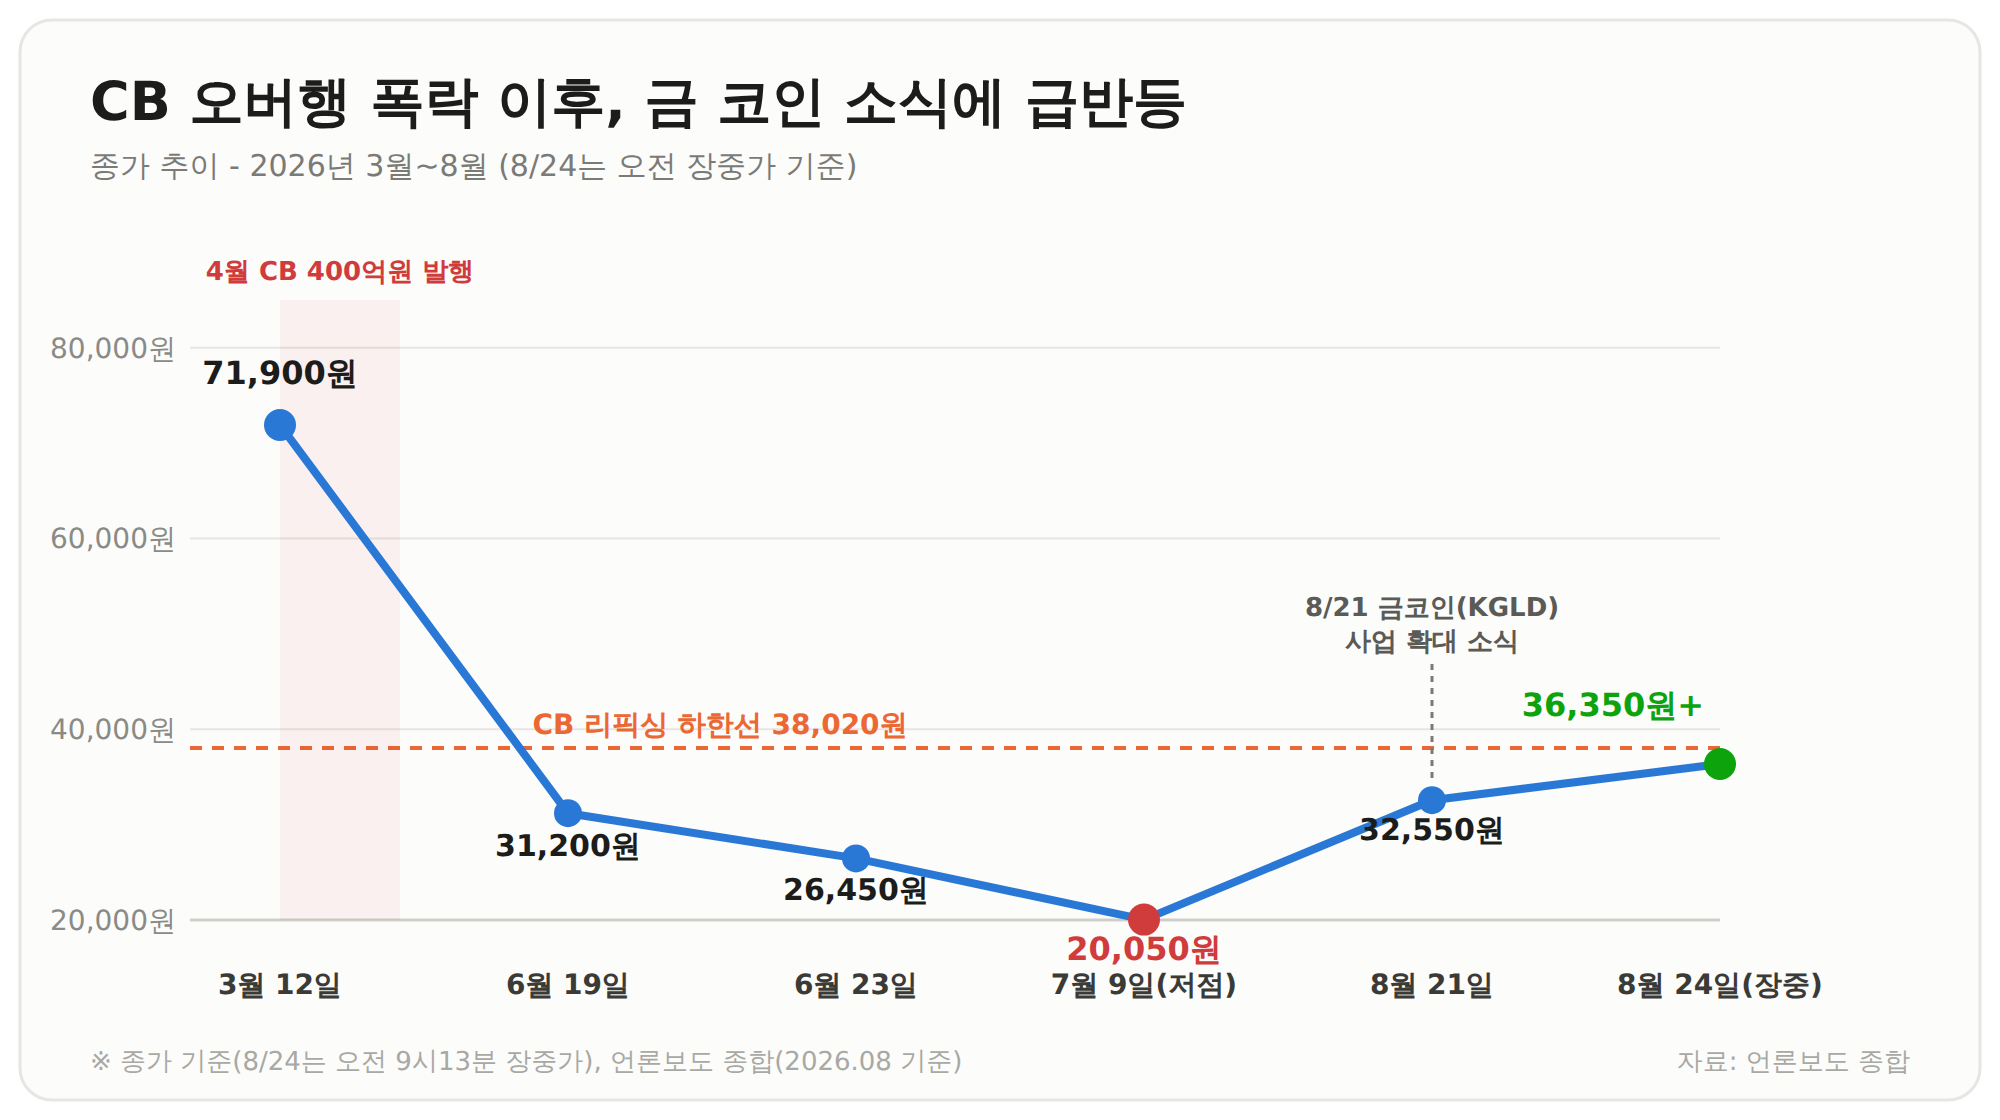
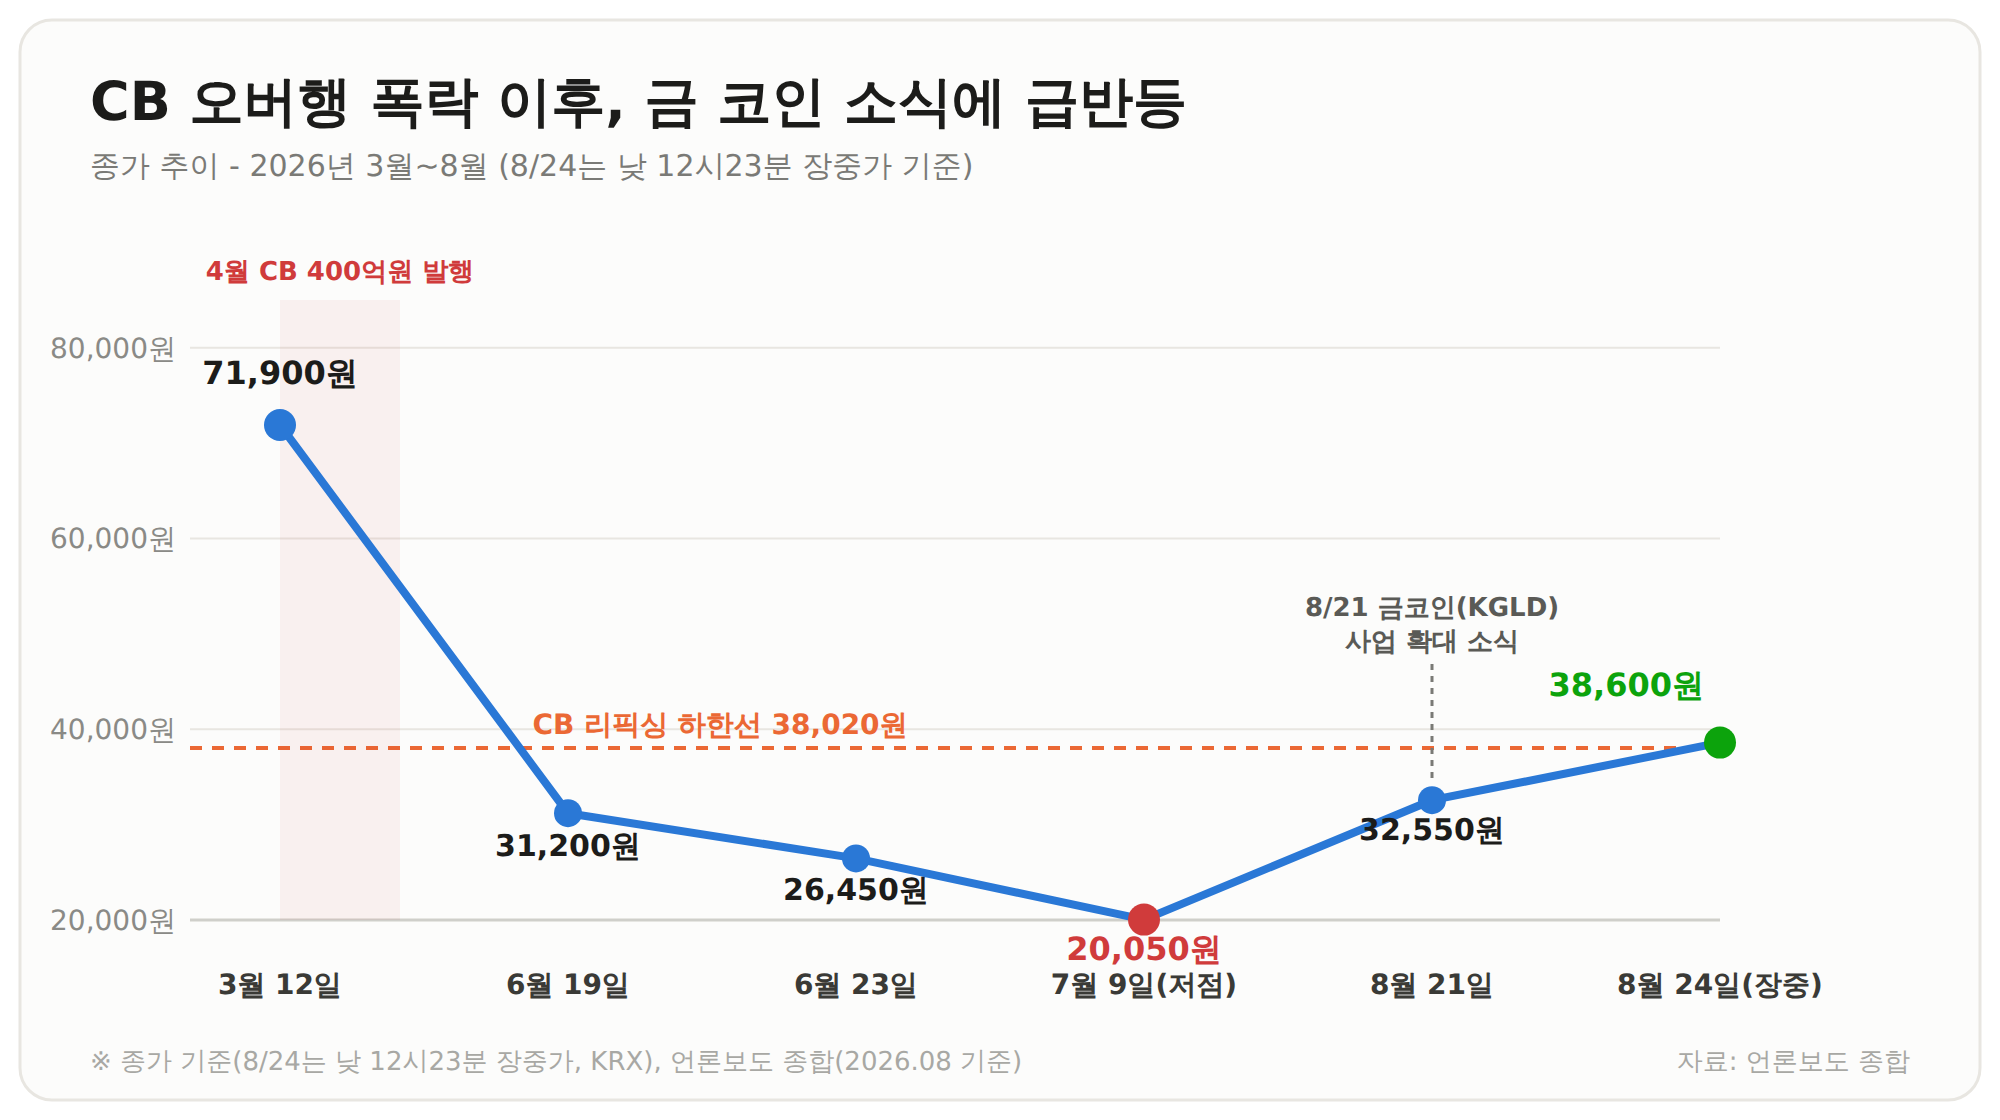
fix: 아이티센글로벌 8/24 낮 12시23분 KRX 종가(38,600원) 반영, 3일 거래량 관심종목 코멘트 추가
- 8/24 장중가를 9시13분 36,350원(+11.67%)에서 낮 12시23분 KRX 38,600원(+18.6%)으로
  갱신 - 리픽싱 하한선(38,020원)을 다시 상회
- 8/21 소식 이후 최근 3거래일간 거래량을 동반한 상승이 나타나고 있다는 점을
  '가장 큰 이슈'와 '투자 포인트'에 반영, 관심종목으로 체크해볼 만하다는 시각 추가
- 커버·종가추이 차트 수치 동일하게 갱신

Changed region(s): [[0.713, 0.5938, 0.868, 0.7188], [0.155, 0.9375, 0.527, 0.9688], [0.31, 0.125, 0.496, 0.1562]]

diff --git a/src/App.tsx b/src/App.tsx
@@ -20,7 +20,7 @@ const samplePosts: Post[] = [
 
 안녕하세요 대왕토끼입니다~ 🐰
 
-![아이티센글로벌 주식분석 커버 이미지 - CB 오버행 폭락 이후 금 코인 소식에 급반등, 2026년 상반기 매출(연결) 5조5806억원 전년比 +92%, CB 리픽싱 오버행 우려로 고점 대비 -63% 폭락(3/12→6/23), 8/21 금 코인(KGLD) 소식에 8/24 장중 +11.67% 급등 36,350원대](/images/itcenglobal-stock/itcenglobal-cover.png)
+![아이티센글로벌 주식분석 커버 이미지 - CB 오버행 폭락 이후 금 코인 소식에 급반등, 2026년 상반기 매출(연결) 5조5806억원 전년比 +92%, CB 리픽싱 오버행 우려로 고점 대비 -63% 폭락(3/12→6/23), 8/21 금 코인(KGLD) 소식에 8/24 장중 +18.6% 급등 38,600원대](/images/itcenglobal-stock/itcenglobal-cover.png)
 
 이번 글에서는 전통 IT서비스 지주회사에서 금 기반 웹3(Web3) 기업으로 빠르게 변신 중인 **아이티센글로벌**을 살펴보려고 합니다. 실적은 분기마다 사상 최대치를 갈아치우는데, 주가는 전환사채(CB) 오버행 우려로 반년 만에 반토막 넘게 폭락했다가 최근 다시 급반등하는 극심한 변동성을 보이고 있어요. 무슨 일이 있었는지 순서대로 짚어봤습니다.
 
@@ -72,15 +72,19 @@ const samplePosts: Post[] = [
 
 문제는 이후 주가가 이 하한선보다도 훨씬 더 밀렸다는 점이에요. 3월 12일 71,900원이던 종가는 6월 19일 31,200원, 6월 23일에는 26,450원까지 주저앉았어요(고점 대비 약 -63%). 주가가 리픽싱 하한선(38,020원) 아래로 떨어지면서, CB가 전환될 경우 예상되는 잠재 발행주식수가 최초 전환가 기준 약 73만 6천주에서 하한선 기준 약 105만주까지 늘어나는 오버행(잠재 매도물량) 우려가 부각됐습니다. 이후에도 반등하지 못하고 7월 9일에는 20,050원까지 밀리는 등 약세가 이어졌어요.
 
-![아이티센글로벌 종가 추이 차트 - 4월 CB 400억원 발행 이후 3월12일 71,900원에서 7월9일 저점 20,050원까지 폭락했다가, 8월21일 금코인(KGLD) 사업 확대 소식에 8월24일 장중 36,350원대까지 반등, CB 리픽싱 하한선 38,020원 표시](/images/itcenglobal-stock/itcenglobal-price-trend.png)
+![아이티센글로벌 종가 추이 차트 - 4월 CB 400억원 발행 이후 3월12일 71,900원에서 7월9일 저점 20,050원까지 폭락했다가, 8월21일 금코인(KGLD) 사업 확대 소식에 8월24일 낮 12시23분 장중 38,600원까지 반등, CB 리픽싱 하한선 38,020원 표시](/images/itcenglobal-stock/itcenglobal-price-trend.png)
 
 ### ② 8월 21일 '금 코인(KGLD)' 사업 확대 소식에 급반등
 
-분위기가 바뀐 건 8월이에요. 8월 21일 회사가 실물 금 연동 토큰 '케이골드(KGLD)' 사업 확대 구상을 공개하면서 투자자들의 관심이 몰렸어요. 이 소식에 8월 24일 장 초반(오전 9시 13분 기준) 주가는 전 거래일 종가(32,550원) 대비 +11.67% 급등한 36,350원까지 올랐습니다. (이 수치는 장중가 기준으로, 최종 종가와는 다를 수 있어요.)
+분위기가 바뀐 건 8월이에요. 8월 21일 회사가 실물 금 연동 토큰 '케이골드(KGLD)' 사업 확대 구상을 공개하면서 투자자들의 관심이 몰렸어요. 이 소식에 8월 24일 낮 12시 23분 기준 주가는 전 거래일 종가(32,550원) 대비 +18.6% 급등한 38,600원(KRX)까지 올랐습니다. (이 수치는 장중가 기준으로, 최종 종가와는 다를 수 있어요.)
 
 핵심은 회사가 3분기 내 금 코인 발행과 국내외 거래소 상장을 추진하고 있고, 이미 대형 결제대행사(PG)와의 개념증명(PoC)을 마쳤다는 점이에요. CB 오버행이라는 수급 부담 요인이 여전한 가운데, 실제 사업화 진전이라는 펀더멘털 재료가 부딪히는 국면인 셈이죠.
 
-### ③ 관전 포인트 - 오버행은 아직 진행형
+### ③ 최근 3거래일 거래량도 함께 늘어나는 흐름
+
+가격 반등뿐 아니라 거래량도 함께 살펴볼 만해요. 8월 21일 금 코인 소식이 나온 이후 최근 3거래일 동안 평소보다 눈에 띄게 늘어난 거래량을 동반하며 주가가 오르는 흐름이 나타나고 있어요. 가격 상승이 거래량 증가와 함께 나타나는 건 일반적으로 매수세가 실렸다는 신호로 해석되는 만큼, 이 흐름이 이어지는지 관심종목으로 체크해볼 만한 구간이라는 시각도 있습니다.
+
+### ④ 관전 포인트 - 오버행은 아직 진행형
 
 오버행 우려가 완전히 해소된 건 아니에요. CB 전환청구기간은 2027년 5월부터 시작되기 때문에 당장 물량이 풀리는 건 아니지만, 주가가 낮게 유지될수록 잠재 전환주식수가 늘어난 채 고정된다는 점은 구조적 부담으로 남아있어요. 결국 웹3 신사업(금 코인·STO)이 실제 매출과 이익으로 얼마나 빨리 연결되는지가, 이 오버행 부담을 상쇄할 수 있는지의 관건이에요.
 
@@ -119,6 +123,7 @@ CB 발행 이전인 2025년 4월경에는 증권사 컨센서스 목표주가가
 - 2026년 상반기 매출·영업이익이 각각 전년동기比 +92%, +94%로 외형 성장이 뚜렷하고, IT서비스 부문도 흑자전환에 성공했어요.
 - 3분기 내 금 코인 발행, 거래소 상장이라는 구체적인 이벤트가 예정돼 있어 단기 모멘텀이 살아있어요.
 - 2026년 4월 코스닥 우량기업부로 소속이 변경되며 재무 안정성 측면에서도 한 단계 인정받았어요.
+- 최근 3거래일간 거래량을 동반한 상승이 이어지고 있어, 단기 수급 측면에서도 관심 있게 지켜볼 만한 구간이에요.
 
 **리스크**
 - CB 리픽싱으로 늘어난 잠재 전환물량(최대 약 105만주)이 여전히 오버행 부담으로 남아있어요.

diff --git a/posts/stock/itcenglobal-analysis.md b/posts/stock/itcenglobal-analysis.md
@@ -10,7 +10,7 @@ naverCategory: "국내주식"
 
 안녕하세요 대왕토끼입니다~ 🐰
 
-![아이티센글로벌 주식분석 커버 이미지 - CB 오버행 폭락 이후 금 코인 소식에 급반등, 2026년 상반기 매출(연결) 5조5806억원 전년比 +92%, CB 리픽싱 오버행 우려로 고점 대비 -63% 폭락(3/12→6/23), 8/21 금 코인(KGLD) 소식에 8/24 장중 +11.67% 급등 36,350원대](/images/itcenglobal-stock/itcenglobal-cover.png)
+![아이티센글로벌 주식분석 커버 이미지 - CB 오버행 폭락 이후 금 코인 소식에 급반등, 2026년 상반기 매출(연결) 5조5806억원 전년比 +92%, CB 리픽싱 오버행 우려로 고점 대비 -63% 폭락(3/12→6/23), 8/21 금 코인(KGLD) 소식에 8/24 장중 +18.6% 급등 38,600원대](/images/itcenglobal-stock/itcenglobal-cover.png)
 
 이번 글에서는 전통 IT서비스 지주회사에서 금 기반 웹3(Web3) 기업으로 빠르게 변신 중인 **아이티센글로벌**을 살펴보려고 합니다. 실적은 분기마다 사상 최대치를 갈아치우는데, 주가는 전환사채(CB) 오버행 우려로 반년 만에 반토막 넘게 폭락했다가 최근 다시 급반등하는 극심한 변동성을 보이고 있어요. 무슨 일이 있었는지 순서대로 짚어봤습니다.
 
@@ -62,15 +62,19 @@ naverCategory: "국내주식"
 
 문제는 이후 주가가 이 하한선보다도 훨씬 더 밀렸다는 점이에요. 3월 12일 71,900원이던 종가는 6월 19일 31,200원, 6월 23일에는 26,450원까지 주저앉았어요(고점 대비 약 -63%). 주가가 리픽싱 하한선(38,020원) 아래로 떨어지면서, CB가 전환될 경우 예상되는 잠재 발행주식수가 최초 전환가 기준 약 73만 6천주에서 하한선 기준 약 105만주까지 늘어나는 오버행(잠재 매도물량) 우려가 부각됐습니다. 이후에도 반등하지 못하고 7월 9일에는 20,050원까지 밀리는 등 약세가 이어졌어요.
 
-![아이티센글로벌 종가 추이 차트 - 4월 CB 400억원 발행 이후 3월12일 71,900원에서 7월9일 저점 20,050원까지 폭락했다가, 8월21일 금코인(KGLD) 사업 확대 소식에 8월24일 장중 36,350원대까지 반등, CB 리픽싱 하한선 38,020원 표시](/images/itcenglobal-stock/itcenglobal-price-trend.png)
+![아이티센글로벌 종가 추이 차트 - 4월 CB 400억원 발행 이후 3월12일 71,900원에서 7월9일 저점 20,050원까지 폭락했다가, 8월21일 금코인(KGLD) 사업 확대 소식에 8월24일 낮 12시23분 장중 38,600원까지 반등, CB 리픽싱 하한선 38,020원 표시](/images/itcenglobal-stock/itcenglobal-price-trend.png)
 
 ### ② 8월 21일 '금 코인(KGLD)' 사업 확대 소식에 급반등
 
-분위기가 바뀐 건 8월이에요. 8월 21일 회사가 실물 금 연동 토큰 '케이골드(KGLD)' 사업 확대 구상을 공개하면서 투자자들의 관심이 몰렸어요. 이 소식에 8월 24일 장 초반(오전 9시 13분 기준) 주가는 전 거래일 종가(32,550원) 대비 +11.67% 급등한 36,350원까지 올랐습니다. (이 수치는 장중가 기준으로, 최종 종가와는 다를 수 있어요.)
+분위기가 바뀐 건 8월이에요. 8월 21일 회사가 실물 금 연동 토큰 '케이골드(KGLD)' 사업 확대 구상을 공개하면서 투자자들의 관심이 몰렸어요. 이 소식에 8월 24일 낮 12시 23분 기준 주가는 전 거래일 종가(32,550원) 대비 +18.6% 급등한 38,600원(KRX)까지 올랐습니다. (이 수치는 장중가 기준으로, 최종 종가와는 다를 수 있어요.)
 
 핵심은 회사가 3분기 내 금 코인 발행과 국내외 거래소 상장을 추진하고 있고, 이미 대형 결제대행사(PG)와의 개념증명(PoC)을 마쳤다는 점이에요. CB 오버행이라는 수급 부담 요인이 여전한 가운데, 실제 사업화 진전이라는 펀더멘털 재료가 부딪히는 국면인 셈이죠.
 
-### ③ 관전 포인트 - 오버행은 아직 진행형
+### ③ 최근 3거래일 거래량도 함께 늘어나는 흐름
+
+가격 반등뿐 아니라 거래량도 함께 살펴볼 만해요. 8월 21일 금 코인 소식이 나온 이후 최근 3거래일 동안 평소보다 눈에 띄게 늘어난 거래량을 동반하며 주가가 오르는 흐름이 나타나고 있어요. 가격 상승이 거래량 증가와 함께 나타나는 건 일반적으로 매수세가 실렸다는 신호로 해석되는 만큼, 이 흐름이 이어지는지 관심종목으로 체크해볼 만한 구간이라는 시각도 있습니다.
+
+### ④ 관전 포인트 - 오버행은 아직 진행형
 
 오버행 우려가 완전히 해소된 건 아니에요. CB 전환청구기간은 2027년 5월부터 시작되기 때문에 당장 물량이 풀리는 건 아니지만, 주가가 낮게 유지될수록 잠재 전환주식수가 늘어난 채 고정된다는 점은 구조적 부담으로 남아있어요. 결국 웹3 신사업(금 코인·STO)이 실제 매출과 이익으로 얼마나 빨리 연결되는지가, 이 오버행 부담을 상쇄할 수 있는지의 관건이에요.
 
@@ -109,6 +113,7 @@ CB 발행 이전인 2025년 4월경에는 증권사 컨센서스 목표주가가
 - 2026년 상반기 매출·영업이익이 각각 전년동기比 +92%, +94%로 외형 성장이 뚜렷하고, IT서비스 부문도 흑자전환에 성공했어요.
 - 3분기 내 금 코인 발행, 거래소 상장이라는 구체적인 이벤트가 예정돼 있어 단기 모멘텀이 살아있어요.
 - 2026년 4월 코스닥 우량기업부로 소속이 변경되며 재무 안정성 측면에서도 한 단계 인정받았어요.
+- 최근 3거래일간 거래량을 동반한 상승이 이어지고 있어, 단기 수급 측면에서도 관심 있게 지켜볼 만한 구간이에요.
 
 **리스크**
 - CB 리픽싱으로 늘어난 잠재 전환물량(최대 약 105만주)이 여전히 오버행 부담으로 남아있어요.
